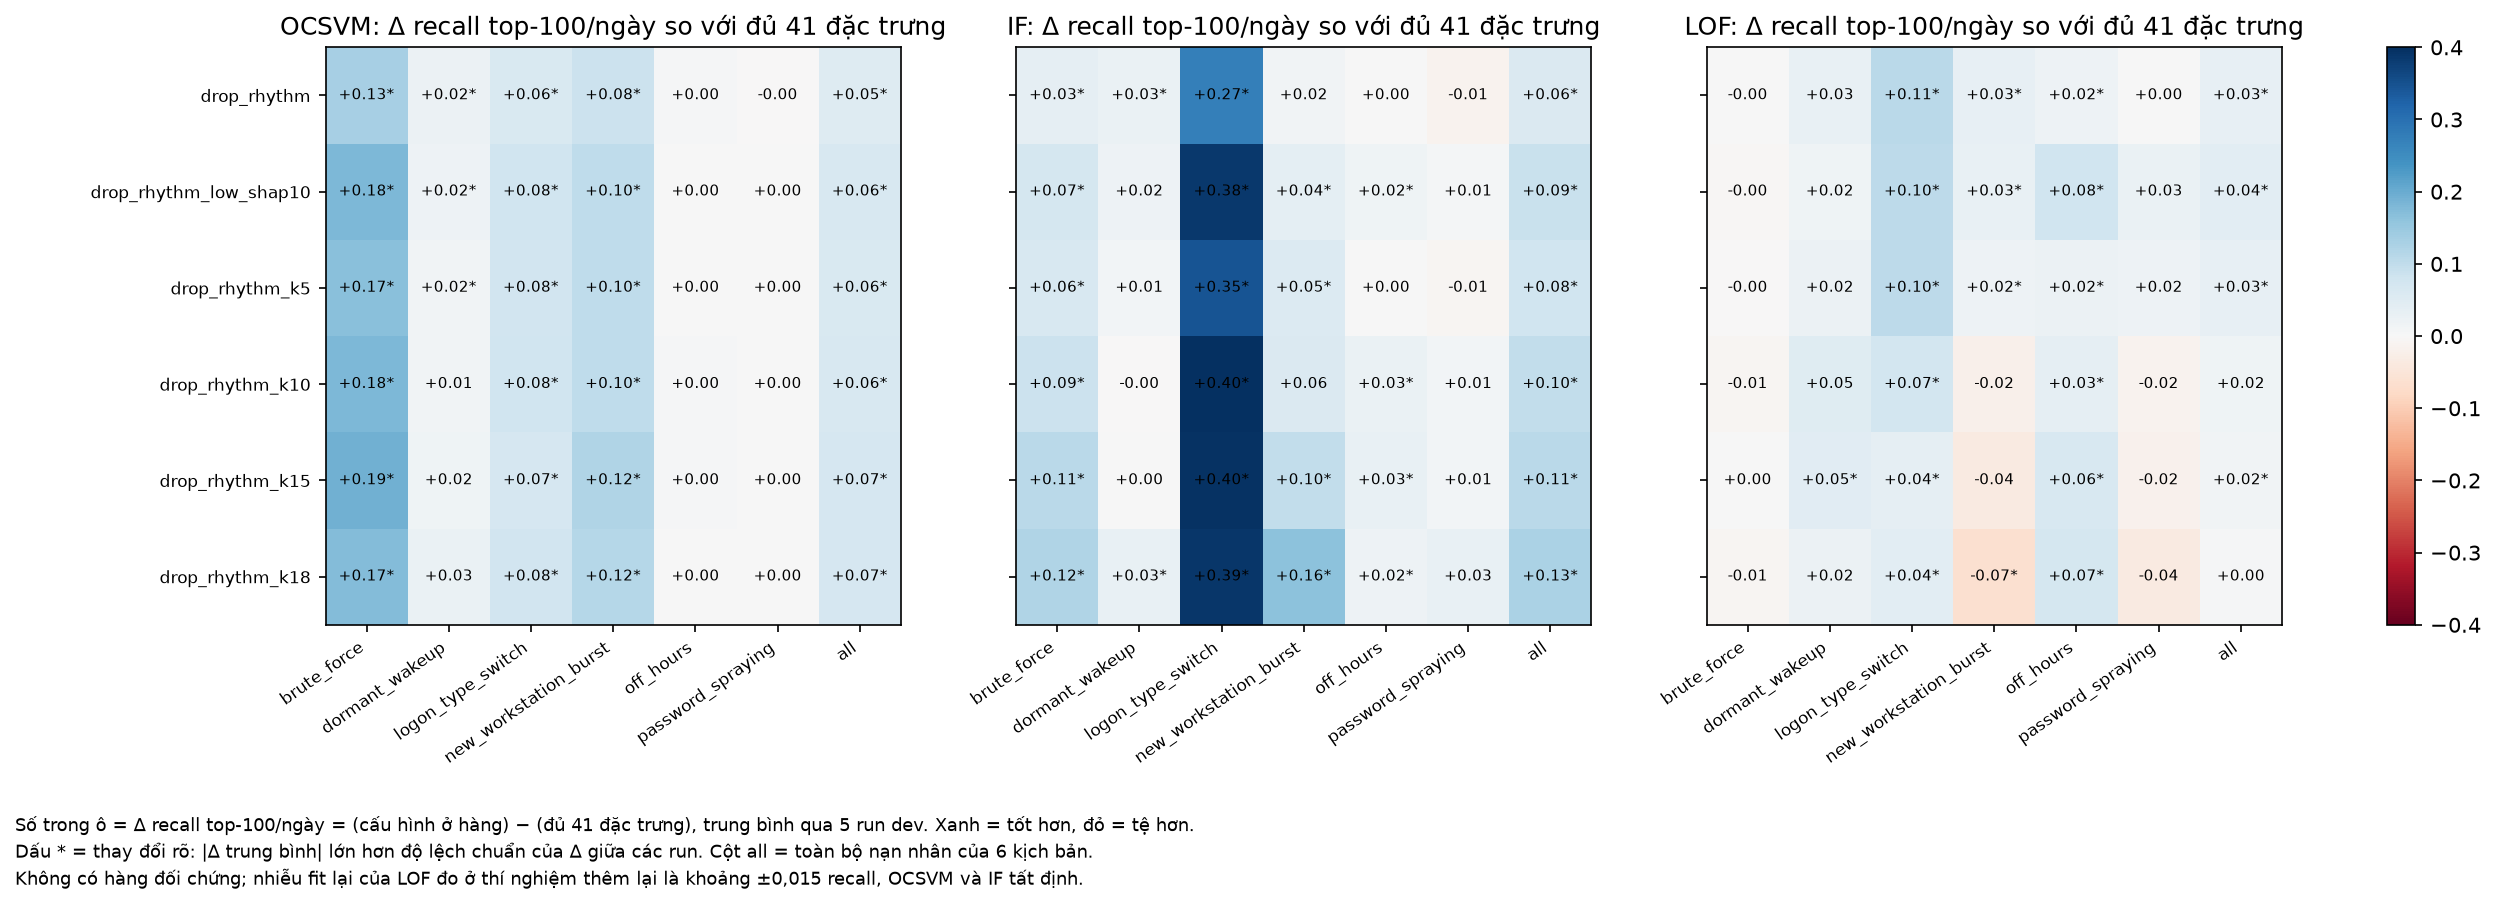
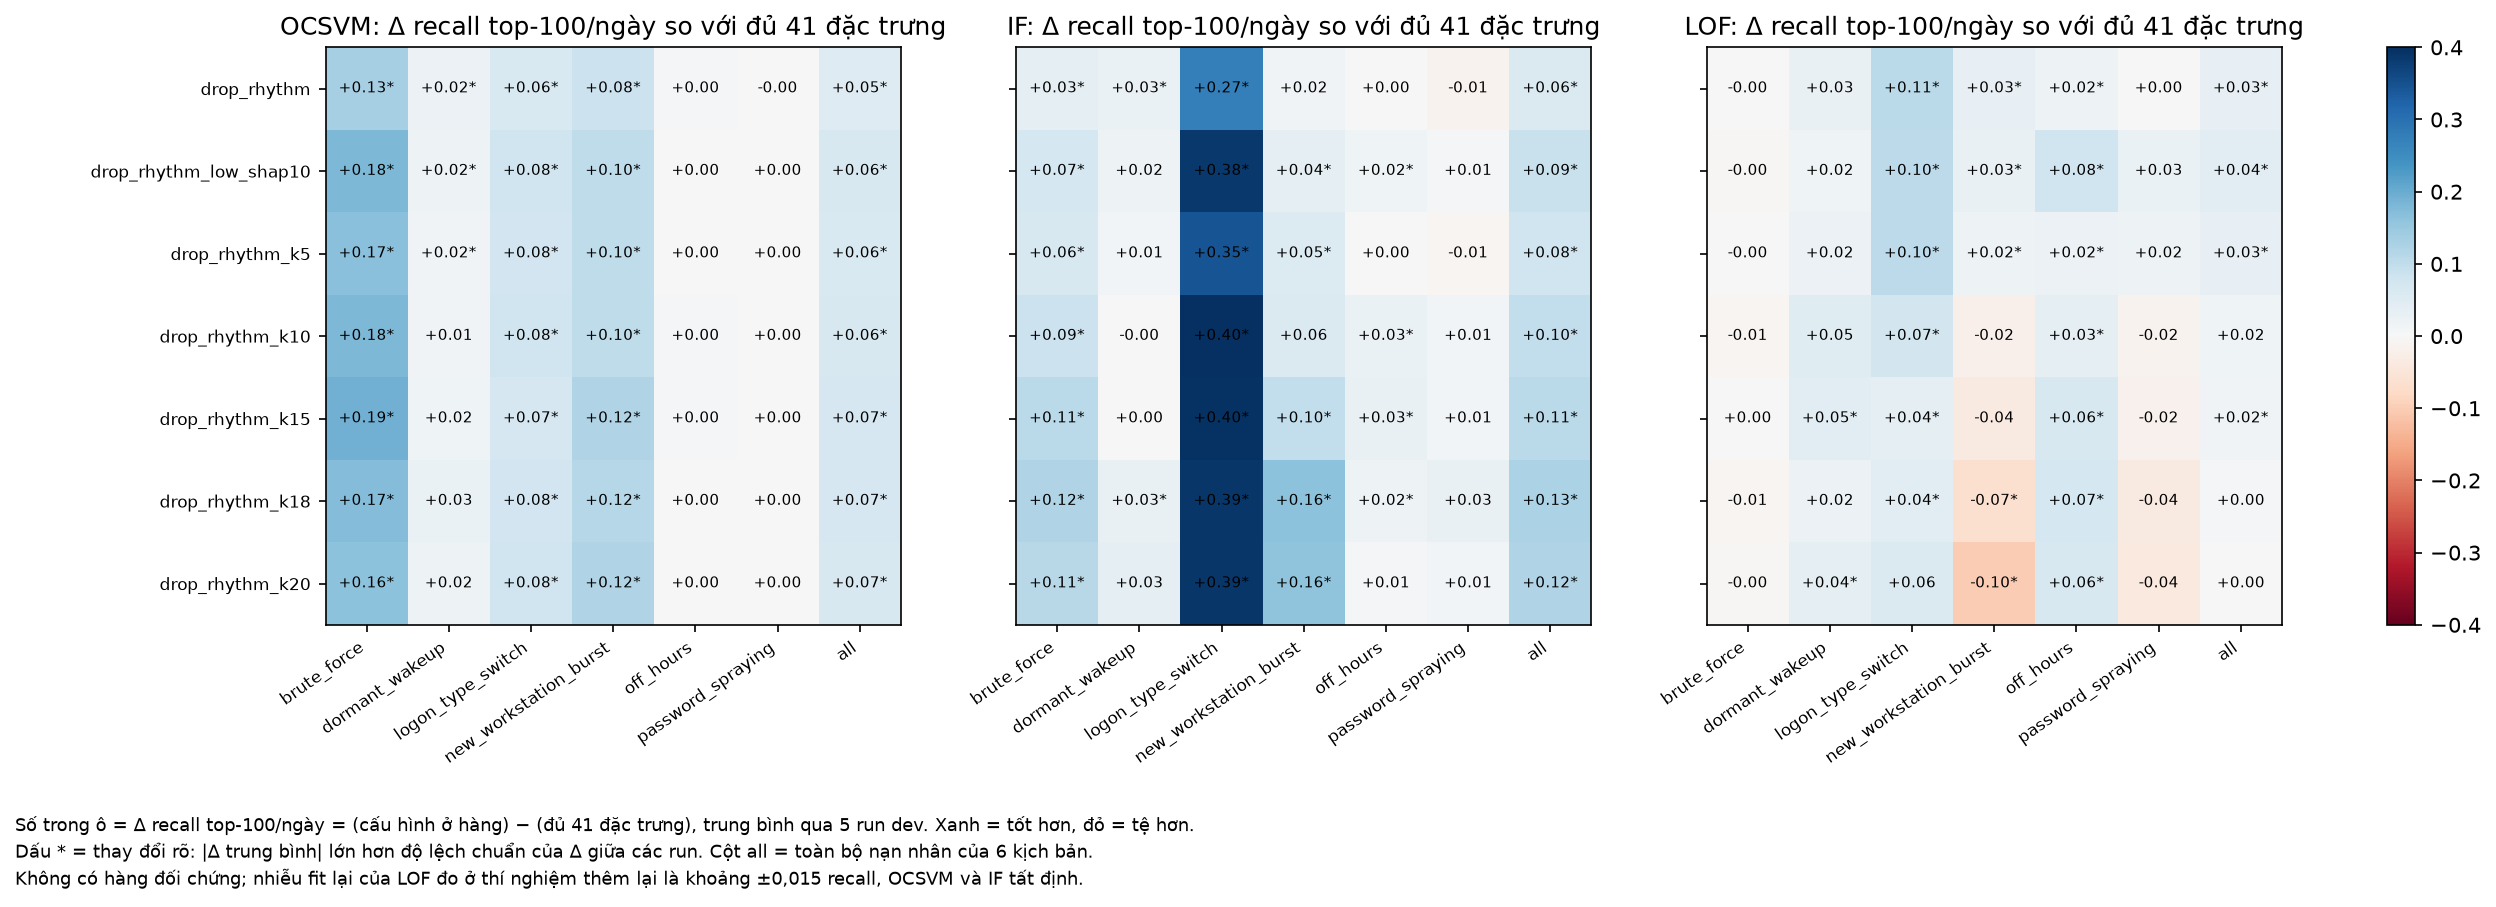
feat(analysis): add K = 20 to the K-curve (21 features)
K = 20 only drops activity_peak_hour_cos beyond K = 18 and is no better for
any model (paired diffs within 1 std); IF saturates at about 22 features.

diff --git a/scripts/evaluation/plot_kcurve.py b/scripts/evaluation/plot_kcurve.py
@@ -23,7 +23,7 @@ import pandas as pd  # noqa: E402
 
 SHORT = {"one_class_svm": "OCSVM", "isolation_forest": "IF", "local_outlier_factor": "LOF"}
 COLOR = {"one_class_svm": "#2a78d6", "isolation_forest": "#eb6834", "local_outlier_factor": "#1baf7a"}
-CURVE = ["full", "drop_rhythm", "drop_rhythm_k5", "drop_rhythm_k10", "drop_rhythm_k15", "drop_rhythm_k18"]
+CURVE = ["full", "drop_rhythm", "drop_rhythm_k5", "drop_rhythm_k10", "drop_rhythm_k15", "drop_rhythm_k18", "drop_rhythm_k20"]
 OLD30 = "drop_rhythm_low_shap10"
 METRICS = {"recall_at_100_per_day": "Recall top-100/ngày (chỉ số chính)", "pr_auc": "PR-AUC"}
 
@@ -63,9 +63,9 @@ def main() -> None:
             ax.plot(nfeat[OLD30], s.loc[OLD30, "mean"], marker="*", ms=14, color=COLOR[m], mec="black", ls="none")
             b = s["best"].iloc[0]
             ax.plot(nfeat[b], s.loc[b, "mean"], marker="o", ms=13, mfc="none", mec="red", mew=2, ls="none")
-        ax.set_xticks([41, 37, 33, 30, 29, 25, 22])
+        ax.set_xticks([41, 37, 33, 30, 29, 25, 22, 21])
         ax.invert_xaxis()
-        ax.set_xlabel("số đặc trưng còn lại  (41 → bỏ rhythm 37 → K = 5 / 10 / 15 / 18)")
+        ax.set_xlabel("số đặc trưng còn lại  (41 → bỏ rhythm 37 → K = 5 / 10 / 15 / 18 / 20)")
         ax.set_title(title)
         ax.grid(axis="y", color="#ddd")
         for sp in ("top", "right"):

diff --git a/scripts/evaluation/feature_ablation.py b/scripts/evaluation/feature_ablation.py
@@ -75,7 +75,7 @@ def addback_configs(origin: dict) -> dict:
 
 
 SHAP_SHARE = ROOT / "experiments/analysis/explain_stability/feature_share_by_run.csv"
-K_VALUES = (5, 10, 15, 18)
+K_VALUES = (5, 10, 15, 18, 20)
 
 
 def shap_low_order(path: Path = SHAP_SHARE) -> list:
@@ -243,7 +243,7 @@ def main() -> None:
     p.add_argument("--analyze-only", action="store_true")
     p.add_argument("--mode", choices=["groups", "addback", "kcurve"], default="groups",
                    help="groups: bỏ theo nhóm so với đủ 41; addback: thêm lại từng đặc trưng đã bỏ vào bộ 30; "
-                        "kcurve: bỏ rhythm + K đặc trưng SHAP thấp nhất, K = 5/10/15/18")
+                        "kcurve: bỏ rhythm + K đặc trưng SHAP thấp nhất, K = 5/10/15/18/20")
     p.add_argument("--out", default=None, help="mặc định experiments/ablation/feature_groups | addback | kcurve")
     args = p.parse_args()
     args.out = args.out or "experiments/ablation/" + {"addback": "addback", "kcurve": "kcurve"}.get(

diff --git a/reports/week5/chon_so_dac_trung_K.md b/reports/week5/chon_so_dac_trung_K.md
@@ -24,6 +24,7 @@ Kết quả tốt của bộ 30 chỉ chứng minh bỏ 11 đặc trưng này *k
 | `drop_rhythm_k10` | 10 | 29 | `log_total_logons`, `custom_proc_share`, `delta_mean_distinct_pair_7d`, `new_host_count_7d` |
 | `drop_rhythm_k15` | 15 | 25 | `peer_z_share_night`, `rare_logon_type_count_log`, `remote_logon_ratio`, `volume_robust_z_7d` |
 | `drop_rhythm_k18` | 18 | 22 | `off_hours_ratio`, `delta_mean_distinct_fail_host_7d`, `jaccard_logontype_7d` |
+| `drop_rhythm_k20` | 20 | 21 | `activity_peak_hour_cos` (hạng 19 và 20 còn lại là `interarrival_dt_mean`, đã bỏ cùng rhythm) |
 | `drop_rhythm_low_shap10` (**bộ 30 hiện tại**) | – | 30 | rhythm + danh sách 10 cũ (từ 1 run) |
 
 - **K = 18 là mức cắt trung bình:** đúng 18 đặc trưng này có tỷ phần **dưới mức chia đều 1/41 ở mọi mô hình và mọi run**.
@@ -47,6 +48,7 @@ Kết quả tốt của bộ 30 chỉ chứng minh bỏ 11 đặc trưng này *k
 | 29 (K = 10) | 0,380 (−0,005 ± 0,009) | 0,235 (−0,029 ± 0,022) | 0,184 (−0,023 ± 0,019) |
 | 25 (K = 15) | **0,385 (tốt nhất)** | 0,246 (−0,018 ± 0,015) | 0,181 (−0,026 ± 0,010) |
 | 22 (K = 18) | 0,383 (−0,002 ± 0,009) | **0,264 (tốt nhất)** | 0,170 (−0,037 ± 0,009) |
+| 21 (K = 20) | 0,382 (−0,003 ± 0,008) | 0,258 (−0,006 ± 0,019) | 0,168 (−0,039 ± 0,009) |
 
 **Bảng K.2: PR-AUC TB 5 run dev**
 
@@ -59,6 +61,7 @@ Kết quả tốt của bộ 30 chỉ chứng minh bỏ 11 đặc trưng này *k
 | 29 (K = 10) | 0,225 | 0,113 | 0,073 |
 | 25 (K = 15) | 0,230 | 0,121 | 0,067 |
 | 22 (K = 18) | 0,227 | **0,128** | 0,062 |
+| 21 (K = 20) | 0,226 | 0,118 | 0,061 |
 
 ![Đường cong chọn K](figures/13-kcurve.png)
 
@@ -72,7 +75,7 @@ Kết quả tốt của bộ 30 chỉ chứng minh bỏ 11 đặc trưng này *k
 
 1. **Ba mô hình muốn ba con số khác nhau, không có K chung tốt nhất.**
    - **OCSVM: đường cong phẳng từ 33 đến 22 đặc trưng.** Mọi cấu hình từ bộ 30 đến K = 18 cách mức tốt nhất ≤ 0,005, trong 1 std. Theo quy tắc, K = 18 (22 đặc trưng) được chọn, nhưng khác biệt giữa 30, 29, 25 và 22 đặc trưng chỉ là nhiễu.
-   - **IF: càng bỏ càng tốt, chưa bão hoà ở 22 đặc trưng.** Recall tăng đều 0,195 → 0,264 và PR-AUC 0,081 → 0,128. K = 15 kém K = 18 rõ (−0,018 ± 0,015 recall). Bỏ thêm nữa có thể còn tăng. Cách giải thích hợp lý: IF chọn đặc trưng ngẫu nhiên để tách, nên mỗi chiều yếu làm loãng cây; bớt chiều yếu thì cây tập trung vào chiều có tín hiệu.
+   - **IF: càng bỏ càng tốt đến 22 đặc trưng, rồi dừng.** Recall tăng đều 0,195 → 0,264 và PR-AUC 0,081 → 0,128. K = 15 kém K = 18 rõ (−0,018 ± 0,015 recall). Bỏ thêm `activity_peak_hour_cos` (K = 20, 21 đặc trưng) không tăng nữa: −0,006 ± 0,019 recall và −0,010 ± 0,015 PR-AUC so với K = 18, nằm trong nhiễu. Đường cong của IF đã bão hoà ở khoảng 22 đặc trưng. Cách giải thích hợp lý: IF chọn đặc trưng ngẫu nhiên để tách, nên mỗi chiều yếu làm loãng cây; bớt chiều yếu thì cây tập trung vào chiều có tín hiệu.
    - **LOF: tốt nhất ở 30–33 đặc trưng rồi giảm.** K = 15 và K = 18 kém rõ (−0,026 ± 0,010 và −0,037 ± 0,009 recall), vượt cả mức nhiễu fit lại. Mức giảm tập trung ở new_workstation_burst (0,19 → 0,10) và password_spraying (0,10 → 0,04). LOF dựa vào khoảng cách trên toàn bộ chiều, nên bỏ các đặc trưng yếu nhưng có tương quan (ví dụ `new_host_count_7d` cùng cụm với `new_source_count_7d`) làm đổi cấu trúc láng giềng.
 
 2. **Bộ 30 hiện tại là điểm thỏa hiệp tốt, dù con số 10 ban đầu là chọn cho tròn.**
@@ -85,18 +88,19 @@ Kết quả tốt của bộ 30 chỉ chứng minh bỏ 11 đặc trưng này *k
 3. **`k10` (29) kém bộ 30 ở LOF dù chỉ khác 5 đặc trưng.** LOF recall 0,184 so với 0,207, burst 0,141 so với 0,191. Ba đặc trưng `k10` bỏ thêm (`custom_proc_share`, `delta_mean_distinct_pair_7d`, `new_host_count_7d`) có ích cho LOF dù SHAP thấp. Một lần nữa, SHAP thấp chưa chắc là vô ích, nhất là với đặc trưng trong cụm tương quan (mục 3.4: SHAP chia công tuỳ ý giữa các đặc trưng cùng cụm). Hiệu này nằm gần mức nhiễu của LOF (−0,023 ± 0,019), cần thêm run để chắc.
 
 4. **Mức cắt trung bình (K = 18) không phải lựa chọn an toàn cho cả ba mô hình.** Nó tốt nhất cho IF, ngang cho OCSVM nhưng làm LOF tệ hơn rõ.
+5. **Rút xuống K = 20 (21 đặc trưng) không tốt hơn K = 18 ở mô hình nào.** So với K = 18 (hiệu ghép cặp, 5 run): OCSVM −0,001 ± 0,004, IF −0,006 ± 0,019, LOF −0,003 ± 0,012 recall; mọi kịch bản lệch ≤ 0,02 trừ burst của LOF (−0,04, trong nhiễu fit lại). Không có lý do cắt sâu hơn 22 đặc trưng.
 
 ## 5. Đề xuất
 
 - **Giữ bộ 30 làm bộ đặc trưng chung của benchmark.** Nay đã có căn cứ: nằm trên vùng phẳng của OCSVM (mô hình chính), tốt nhất cho LOF, chỉ thiệt IF. Trong báo cáo, thay câu "bỏ 10 đặc trưng SHAP thấp nhất" bằng đường cong này làm căn cứ, và nói rõ 10 ban đầu là chọn cho tròn.
 - **Nếu chỉ quan tâm OCSVM:** từ 22 đến 30 đặc trưng đều như nhau; có thể chọn 22 cho gọn, nhưng không cải thiện.
-- **Nếu muốn tối ưu từng mô hình:** dùng bộ riêng, ví dụ IF 22 đặc trưng (hoặc ít hơn, cần chạy thêm K = 20, 22, 25), LOF 30–33, OCSVM 22–30. Đổi bộ đặc trưng cho từng mô hình cần kiểm tra lại một lần trên test.
+- **Nếu muốn tối ưu từng mô hình:** dùng bộ riêng, ví dụ IF 22 đặc trưng (K = 20 đã cho thấy cắt sâu hơn không tăng thêm), LOF 30–33, OCSVM 22–30. Đổi bộ đặc trưng cho từng mô hình cần kiểm tra lại một lần trên test.
 - Không đổi `configs/feature_schema.yaml`; mọi lựa chọn đi qua `drop_features` trong cấu hình lưới.
 
 ## 6. Hạn chế
 
 - Thứ hạng SHAP lấy từ run dev 36–38, mà ablation cũng chạy trên dev, nên có thiên lệch chọn nhẹ. Kết quả chưa kiểm tra trên test.
-- Chỉ thử 4 giá trị K, không chạy đối chứng fit lại trong đợt này; nhiễu LOF lấy từ mục 4.4.
+- Chỉ thử 5 giá trị K, không chạy đối chứng fit lại trong đợt này; nhiễu LOF lấy từ mục 4.4.
 - K đếm trên thứ hạng của cả 41 đặc trưng, nên K = 5 chỉ bỏ thêm 4 đặc trưng ngoài rhythm (và tương tự với các K khác).
 - Tham số mô hình giữ nguyên theo bản 41 đặc trưng; với ít chiều hơn, k của LOF và tham số OCSVM có thể cần dò lại.
 
@@ -105,6 +109,6 @@ Kết quả tốt của bộ 30 chỉ chứng minh bỏ 11 đặc trưng này *k
 📁 [`experiments/ablation/kcurve/`](../../experiments/ablation/kcurve/): `runs.csv`, `scenario_runs.csv`, `summary.csv`, `delta_overall.csv`, `delta_scenario.csv`, `kcurve_vs_best.csv`, `ablation_configs.json`, `figures/`.
 
 ```
-python scripts/evaluation/feature_ablation.py --mode kcurve   # ~30 phút: 7 cấu hình × 3 mô hình × 5 run dev
+python scripts/evaluation/feature_ablation.py --mode kcurve   # ~35 phút: 8 cấu hình × 3 mô hình × 5 run dev
 python scripts/evaluation/plot_kcurve.py                       # hình 13
 ```
